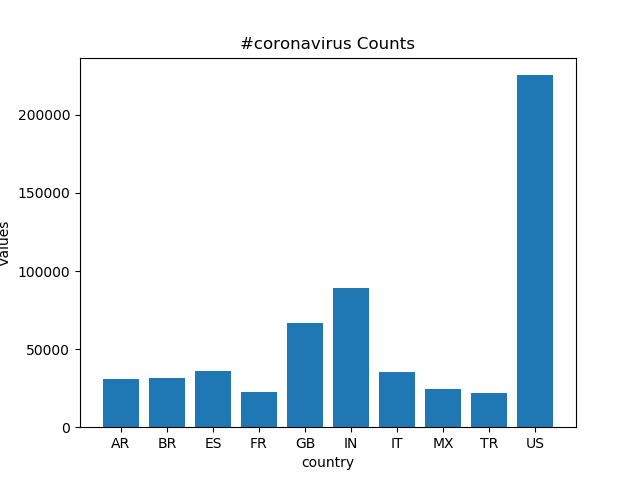
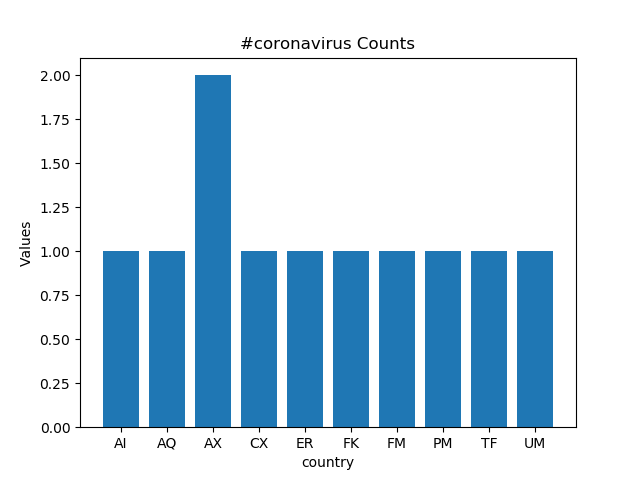
fourth commit

diff --git a/src/map.py b/src/map.py
@@ -37,7 +37,7 @@ hashtags = [
 
 # initialize counters
 counter_lang = defaultdict(lambda: Counter())
-
+counter_country = defaultdict(lambda: Counter())
 # open the zipfile
 with zipfile.ZipFile(args.input_path) as archive:
 
@@ -60,8 +60,14 @@ with zipfile.ZipFile(args.input_path) as archive:
                 # search hashtags
                 for hashtag in hashtags:
                     lang = tweet['lang']
+                    if tweet['place'] is not None:
+                        if tweet['place']['country_code'] is not None:
+                            country = tweet['place']['country_code']
                     if hashtag in text:
                         counter_lang[hashtag][lang] += 1
+                        if country:
+                            counter_country[hashtag][country] += 1
+                            counter_country['_all'][country] += 1
                     counter_lang['_all'][lang] += 1
 
 # open the outputfile
@@ -72,7 +78,12 @@ except FileExistsError:
 output_path_base = os.path.join(args.output_folder,os.path.basename(args.input_path))
 
 output_path_lang = output_path_base+'.lang'
+output_path_country = output_path_base+'.country'
+
 print('saving',output_path_lang)
 with open(output_path_lang,'w') as f:
     f.write(json.dumps(counter_lang))
+print('saving',output_path_country)
+with open(output_path_country,'w') as f:
+    f.write(json.dumps(counter_country))
 

diff --git a/src/visualize.py b/src/visualize.py
@@ -26,7 +26,7 @@ if args.percent:
 #items = sorted(counts[args.key].items(), key=lambda item: (item[1],item[0]), reverse=True)
 #for k,v in items:
 #   print(k,':',v)
-items = sorted(counts[args.key].items(), key=lambda item: (item[1],item[0]))[-10:]
+items = sorted(counts[args.key].items(), key=lambda item: (item[1],item[0]))[:10]
 
 # create a bar graph of the results
 keys = [item[0] for item in items]
@@ -35,9 +35,9 @@ plt.bar(keys, values)
 
 # set the title and labels of the graph
 plt.title(args.key + ' Counts')
-plt.xlabel('Keys')
+plt.xlabel('country')
 plt.ylabel('Values')
 
 # save the graph as a png file
-output_path = os.path.splitext(args.input_path)[0] + '_' + args.key + '.png'
+output_path = 'Country' + '_' + args.key + '.png'
 plt.savefig(output_path)
